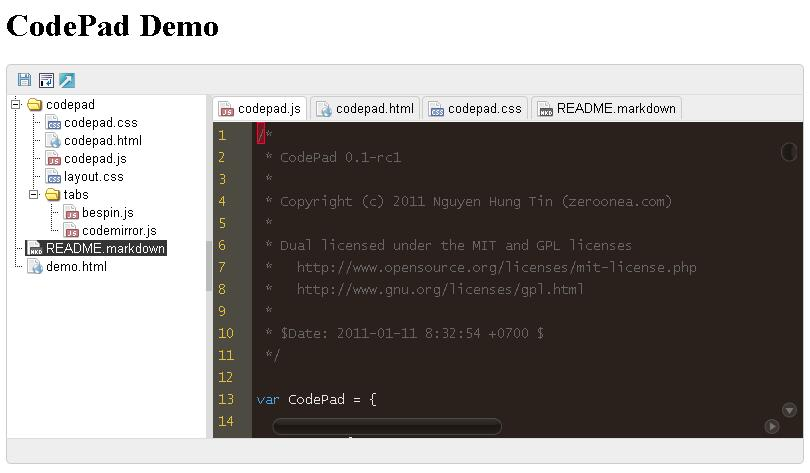
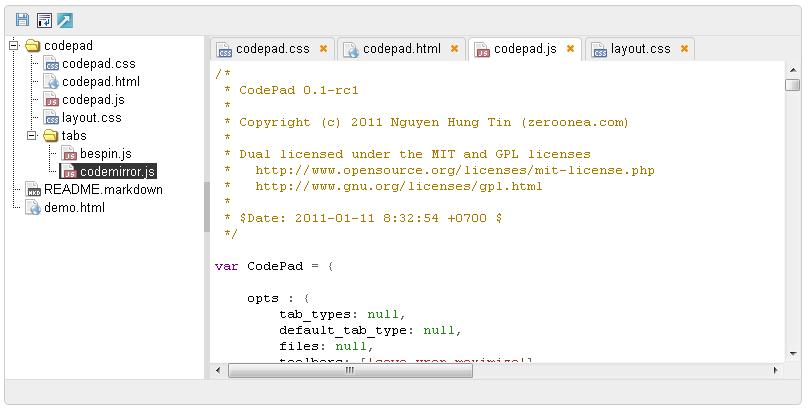
fix bug

diff --git a/demo.html b/demo.html
@@ -50,7 +50,7 @@ function start_codepad(iframe){
                 }
             }
         },
-        default_tab_type: 'bespin',
+        default_tab_type: 'codemirror',
         files: files,
         load_file_callback: 'load_file',
         save_file_callback: 'save_file'
